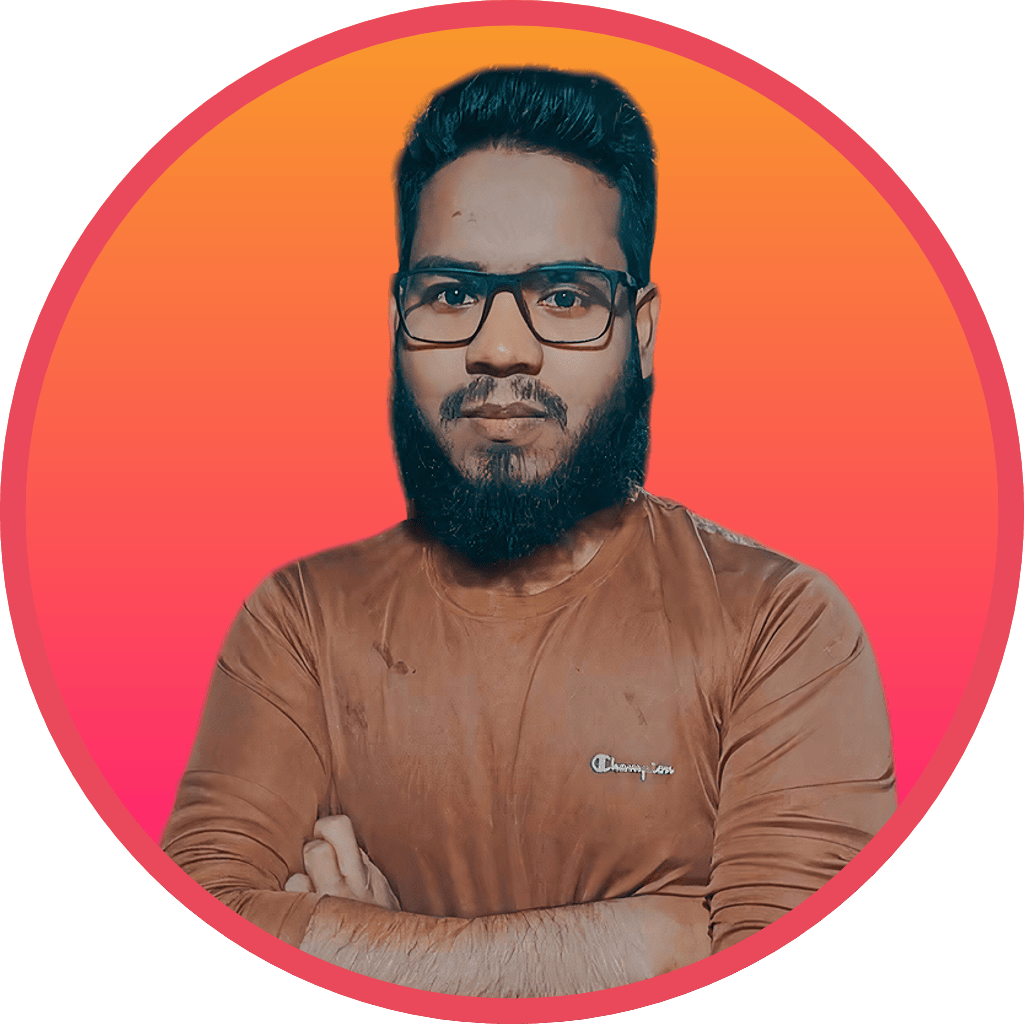
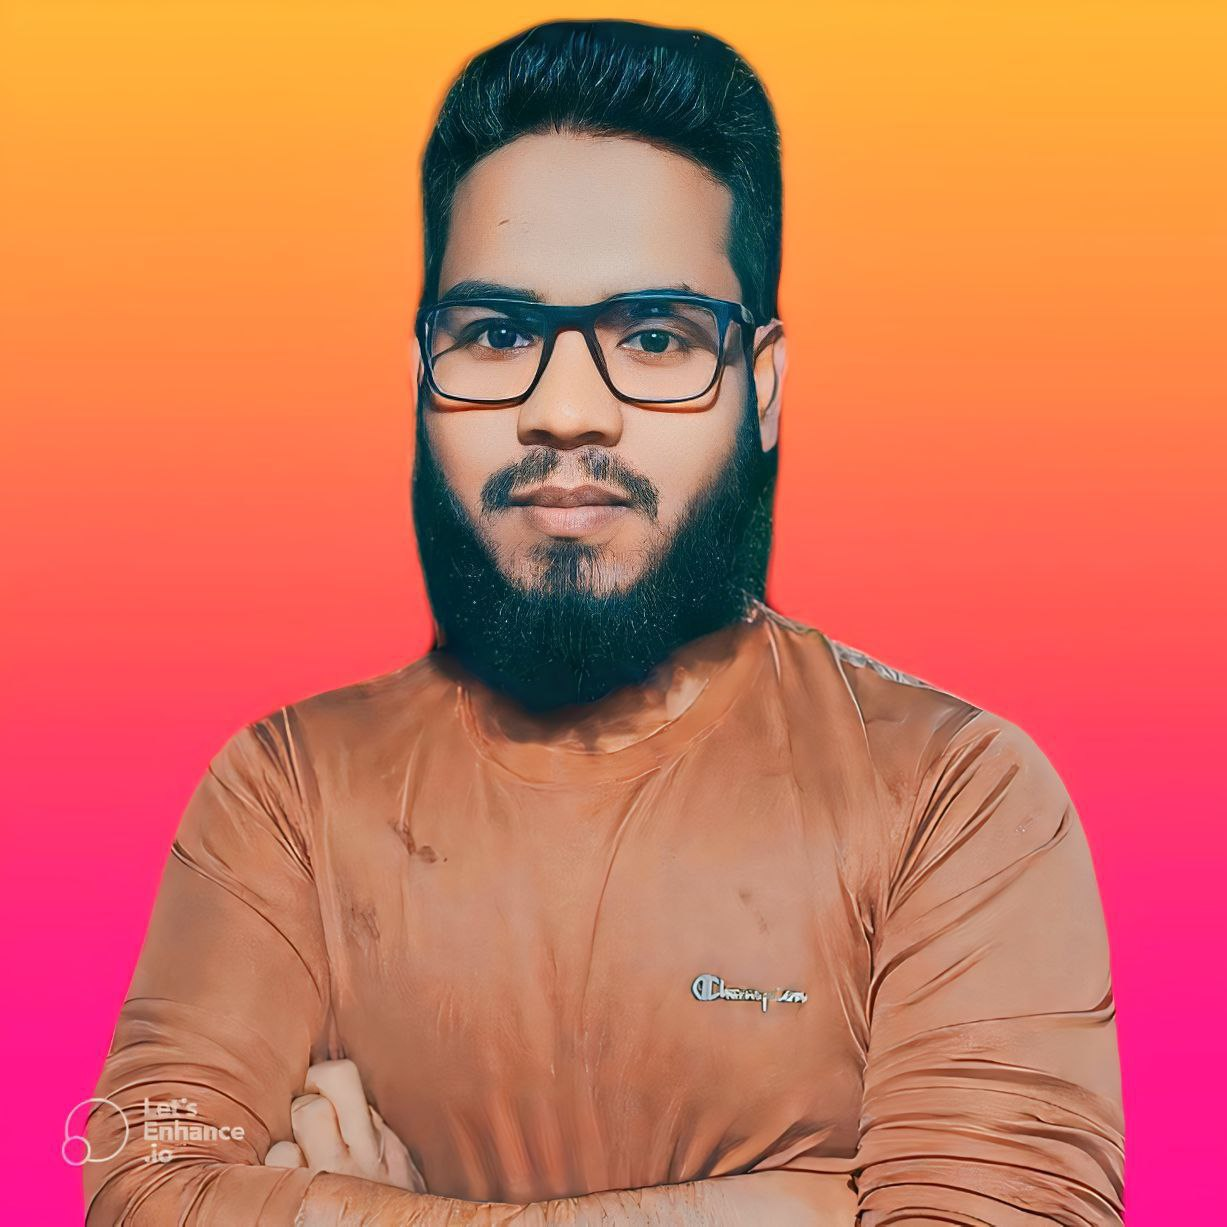
screen size fixed

diff --git a/src/app/about/page.js b/src/app/about/page.js
@@ -3,14 +3,13 @@ import PageTitle from "@/components/PageTitle/PageTitle";
 import ServiceCard from "@/components/ServiceCard/ServiceCard";
 import { getServiceData } from "@/data/serviceData";
 
-
 import Image from "next/image";
 export const metadata = {
-    title: "About",
-    description: "about Of Akash Khan",
-  };
+  title: "About",
+  description: "about Of Akash Khan",
+};
 const AboutPage = async () => {
-  const services =getServiceData()
+  const services = getServiceData();
 
   return (
     <>
@@ -19,21 +18,15 @@ const AboutPage = async () => {
         <div className="min-h-screen flex justify-center items-center">
           <div className="text-gray-600 body-font">
             <div className="flex justify-between py-10 lg:flex-row flex-col mx-auto items-center gap-x-10">
-              <div
-                data-aos="fade-right"
-                data-aos-delay="0"
-                data-aos-duration="1000"
-                data-aos-easing="ease-in-out"
-                className=" lg:w-1/3  h-[600px] overflow-hidden mb-10 lg:mb-0"
-              >
+              <div className=" lg:w-1/3  h-[600px] overflow-hidden mb-10 lg:mb-0">
                 <Image
                   className="w-full h-full rounded   md:w-full mx-auto "
                   alt="Akash Ali"
-                  fill
-                  blur="blur"
+                  placeholder="blur"
+                  blurDataURL="/akash.jpeg"
+                  width={500}
+                  height={500}
                   src={"/akash.jpeg"}
-          
-                
                 />
               </div>
               <div

diff --git a/src/components/ProjectCard/ProjectCard.jsx b/src/components/ProjectCard/ProjectCard.jsx
@@ -3,6 +3,7 @@ import Link from "next/link";
 
 const ProjectCard = ({ project }) => {
   const { name, live_link, code_link, image, description, tags } = project;
+  console.log(image);
 
   return (
     <section className="my-10">
@@ -10,9 +11,7 @@ const ProjectCard = ({ project }) => {
         <div className="cursor-pointer border border-pink-600 overflow-hidden  w-full lg:w-2/4 md:w-3/4 md:h-96  rounded-md">
           <Image
             src={image}
-            blurDataURL="blur"
-  
-            className=" hover:scale-105 transition-all duration-500 w-full h-full "
+            className="hover:scale-105 transition-all duration-500 w-full h-full "
             alt={name}
             width={500}
             height={500}
@@ -25,7 +24,17 @@ const ProjectCard = ({ project }) => {
           <p className="text-black dark:text-gray-400 text-lg lg:my-6 my-1 text-center md:text-left">
             {description}
           </p>
-          <div className="flex gap-5 flex-wrap justify-center items-center md:items-start md:justify-start"> {tags.map(tag=> <p key={tag} className="text-gray-600  bg-gray-300 p-1 rounded-lg">{tag}</p>)}</div>
+          <div className="flex gap-5 flex-wrap justify-center items-center md:items-start md:justify-start">
+            {" "}
+            {tags.map((tag) => (
+              <p
+                key={tag}
+                className="text-gray-600  bg-gray-300 p-1 rounded-lg"
+              >
+                {tag}
+              </p>
+            ))}
+          </div>
           <div className="flex gap-x-5 mt-5">
             {/* Live Link */}
             <Link

diff --git a/src/data/serviceData.js b/src/data/serviceData.js
@@ -1,27 +1,29 @@
-const data  = [
+const data = [
   {
     id: 1,
     title: "React JS",
     image: "https://i.postimg.cc/nhxsgkks/react.png",
-    description: "JavaScript library for UIs. Create reusable components, manage state efficiently, and enhance performance with React's virtual DOM."
+    description:
+      "JavaScript library for UIs. Create reusable components, manage state efficiently, and enhance performance with React's virtual DOM.",
   },
   {
     id: 2,
     title: "Node JS",
     image: "https://i.postimg.cc/CMWnHYns/nodejs.png",
-    description: "Server-side JavaScript runtime. Enables scalable, high-performance web apps with an event-driven, non-blocking I/O model, ideal for APIs."
+    description:
+      "Server-side JavaScript runtime. Enables scalable, high-performance web apps with an event-driven, non-blocking I/O model, ideal for APIs.",
   },
   {
     id: 3,
-    title: "WordPress",
-    image: "https://i.postimg.cc/c4wgFjQy/wordpress.png",
-    description: "Versatile CMS in PHP. Powers websites, blogs, and e-commerce stores with themes, plugins, and a customizable framework."
-  }
-]
+    title: "Next JS",
+    image: "https://i.postimg.cc/vTvYTNvC/nextjs-1.png",
+    description:
+      "React framework for production. Optimizes performance with static and server-side rendering, file-based routing, and automatic code-splitting.",
+  },
+];
 
+const getServiceData = () => {
+  return data;
+};
 
-const getServiceData = ()=> {
-  return data
-}
-
-export {getServiceData}
+export { getServiceData };

diff --git a/src/components/Sidebar/Sidebar.jsx b/src/components/Sidebar/Sidebar.jsx
@@ -1,8 +1,6 @@
-"use client"
+"use client";
 import { useState } from "react";
 import { GiHamburgerMenu } from "react-icons/gi";
-
-
 
 import NavItems from "../NavItem/NavItem";
 import Image from "next/image";
@@ -34,9 +32,9 @@ const Sidebar = () => {
         <div>
           <div className="w-full flex px-2 py-2  justify-center items-center  mx-auto border-b border-b-pink-500  dark:border-[#F31559]">
             <Image
-            width={192}
-            height={192}
-              src={'/myPhoto.png'}
+              width={192}
+              height={192}
+              src={"/myPhoto.png"}
               className="rounded-full p-1 h-48 w-48"
               alt=""
             />
@@ -48,7 +46,11 @@ const Sidebar = () => {
 
         <div className="flex flex-col  ">
           <nav className="text-center flex flex-col ">
-            <NavItems handleToggle={handleToggle} label={"Home"} address={"/"} />
+            <NavItems
+              handleToggle={handleToggle}
+              label={"Home"}
+              address={"/"}
+            />
             <NavItems
               handleToggle={handleToggle}
               label={"About"}
@@ -77,9 +79,8 @@ const Sidebar = () => {
           </nav>
         </div>
         <div>
-          
           <p className="text-black dark:text-white text-center pt-2 flex justify-center items-center border-t border-t-pink-500">
-            © 2023 | <b>  Akash Ali</b>
+            © 2023 | <b> Akash Ali</b>
           </p>
         </div>
       </div>

diff --git a/src/components/Home/Home.jsx b/src/components/Home/Home.jsx
@@ -7,12 +7,12 @@ const Home = () => {
   return (
     <div>
       <ParticlesComponent />
-      <div className=" min-h-[70vh] flex flex-col justify-center items-center max-w-4xl mx-auto space-y-4 ">
+      <div className=" min-h-[calc(100vh-40px)] flex flex-col justify-center items-center max-w-4xl mx-auto space-y-4 ">
         <h2 className="text-black dark:text-white text-3xl lg:text-5xl font-semibold">
           {"Hi, I'm "}
           <TypeAnimationCom />
         </h2>
-        <div className="text-center flex flex-col justify-center text-black dark:text-gray-400 text-xl">
+        <div className="text-center flex flex-col justify-center text-black dark:text-gray-400 text-sm md:text-xl">
           <p>
             {`I'm always open to new opportunities, collaborations, and discussions
         about the exciting possibilities in the world of web development.Whether you're a fellow developer, potential collaborator, or someone

diff --git a/src/app/layout.js b/src/app/layout.js
@@ -21,12 +21,12 @@ export default function RootLayout({ children }) {
   return (
     <html lang="en">
       <body className={nunito.className}>
-        <div className="relative min-h-screen md:flex">
+        <div className="relative min-h-screen overflow-x-hidden md:flex">
           {/* Sidebar */}
           <Sidebar />
           <Animation />
           {/*  */}
-          <div className="flex-1 xl:ml-64 bg-[#e9e9fc] dark:bg-[#10121A]  duration-300 overflow-x-hidden overflow-y-hidden">
+          <div className="flex-1 min-h-screen xl:ml-64 bg-[#e9e9fc] dark:bg-[#10121A]  duration-300 overflow-x-hidden overflow-y-hidden">
             <div className=" container mx-auto  xl:p-20 lg:p-10 md:p-8 p-5  ">
               {children}
             </div>

diff --git a/src/components/PageTitle/PageTitle.jsx b/src/components/PageTitle/PageTitle.jsx
@@ -3,14 +3,15 @@
 import "./PageTitle.css";
 
 const PageTitle = ({ title }) => {
-  return (<div
+  return (
+    <div
       data-aos="flip-down"
       data-aos-delay="0"
       data-aos-duration="1000"
       data-aos-easing="ease-in-out"
       className="max-w-5xl mx-auto "
     >
-      <h1 className="text-3xl md:text-4xl lg:text-5xl uppercase text-black dark:text-white font-bold title relative">
+      <h1 className="text-3xl md:text-4xl lg:text-5xl uppercase text-black dark:text-white font-bold title mt-12 lg:mt-0 relative">
         {title}
         {/* <Progress
           className="w-32 mt-2 md:mt-3 lg:mt-5 md:w-40 lg:w-52 xl:w-64 h-1 text-gray-500"

diff --git a/src/app/globals.css b/src/app/globals.css
@@ -32,6 +32,7 @@ body::-webkit-scrollbar-thumb {
 }
 
 
+
 .switch {
   font-size: 17px;
   position: relative;
@@ -150,15 +151,15 @@ body::-webkit-scrollbar-thumb {
   }
 }
 
-.input:checked + .slider {
+.input:checked+.slider {
   background-color: #183153;
 }
 
-.input:focus + .slider {
+.input:focus+.slider {
   box-shadow: 0 0 1px #183153;
 }
 
-.input:checked + .slider:before {
+.input:checked+.slider:before {
   transform: translateX(30px);
 }
 
@@ -169,6 +170,7 @@ body::-webkit-scrollbar-thumb {
   display: none;
   z-index: 15;
 }
+
 @media screen and (max-width: 1140px) {
   .menu {
     display: block;
